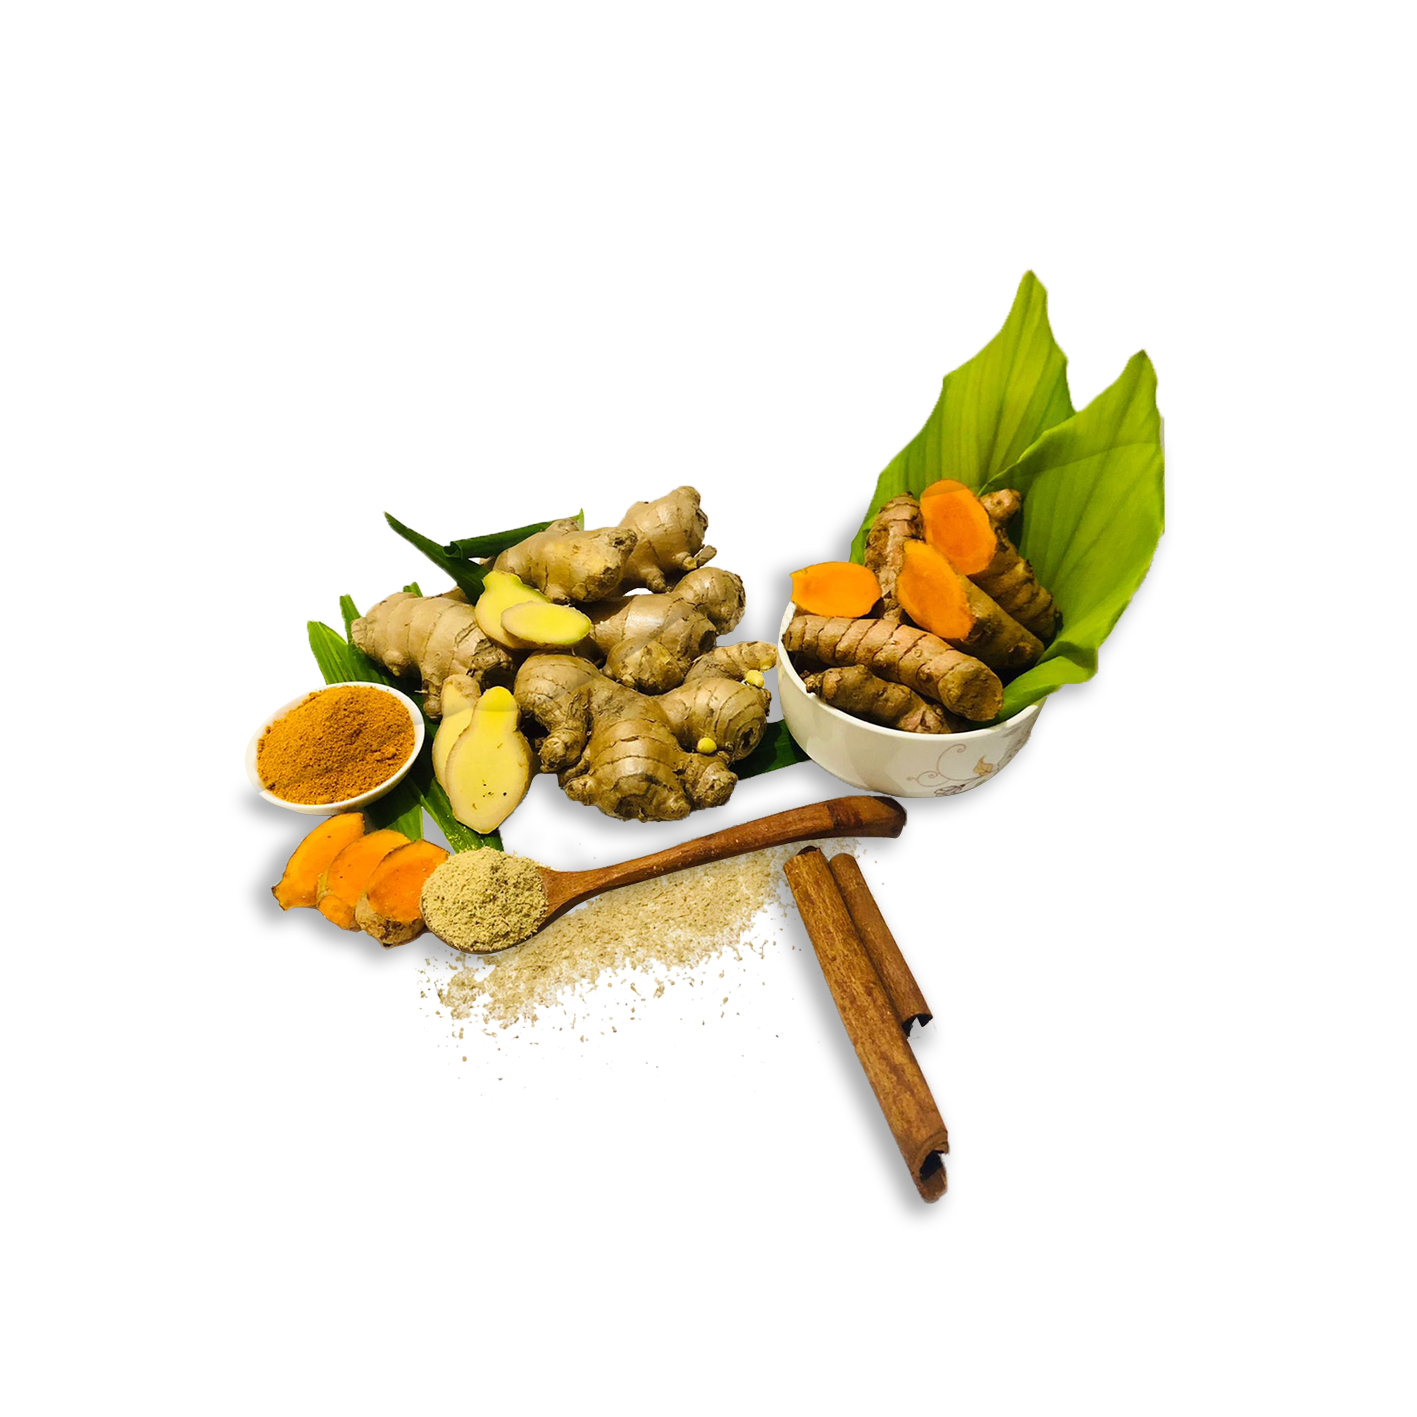
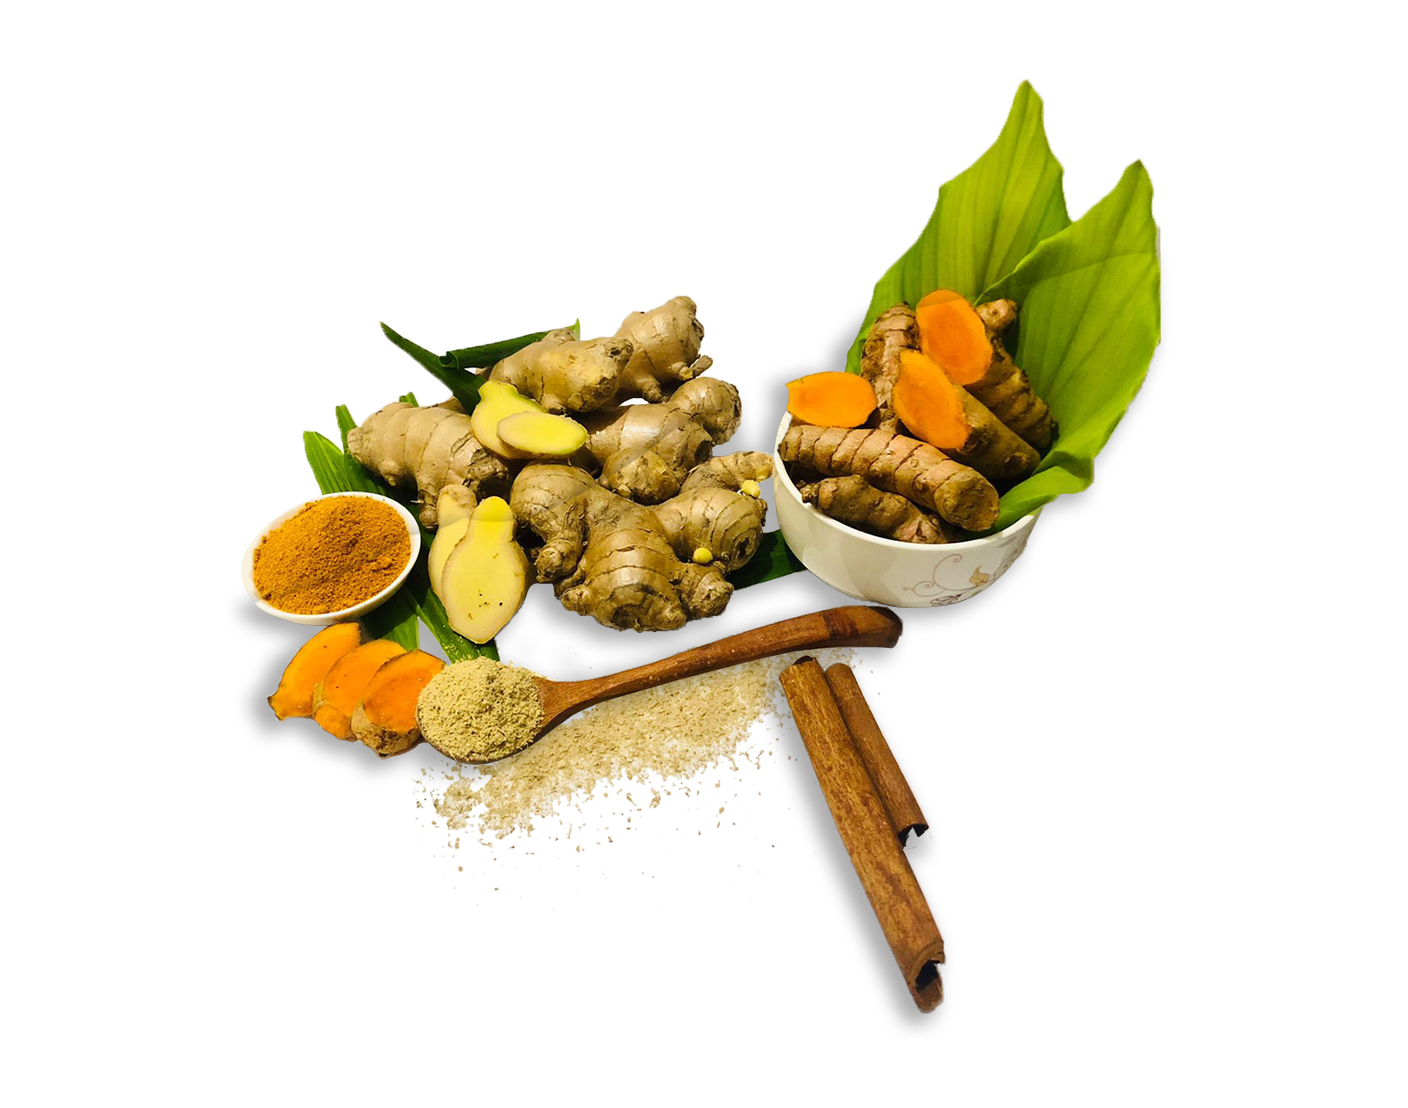
update

Changed region(s): [[0.1562, 0.0614, 0.8438, 0.9206], [0.25, 0.2762, 0.2812, 0.3069]]

diff --git a/assets/css/style.css b/assets/css/style.css
@@ -448,8 +448,7 @@ section {
 .hero {
   width: 100%;
   height: 100vh;
-  /* background: url(../img/product/ladangg-minnn.svg) top center no-repeat; */
-  background: url(../img/product/fwd1/jahe\ 2\ .png) top center no-repeat;
+  background: url(../img/product/fwd1/jahe\ 2\ 2.png) top center no-repeat;
   background-size: cover;
   z-index: 900;
 }
@@ -463,6 +462,7 @@ section {
   color: #E2C373;
   /* visibility: hidden; */
   opacity : 0.2;
+  margin-bottom: 30%;
 }
 
 .hero .hero-img {
